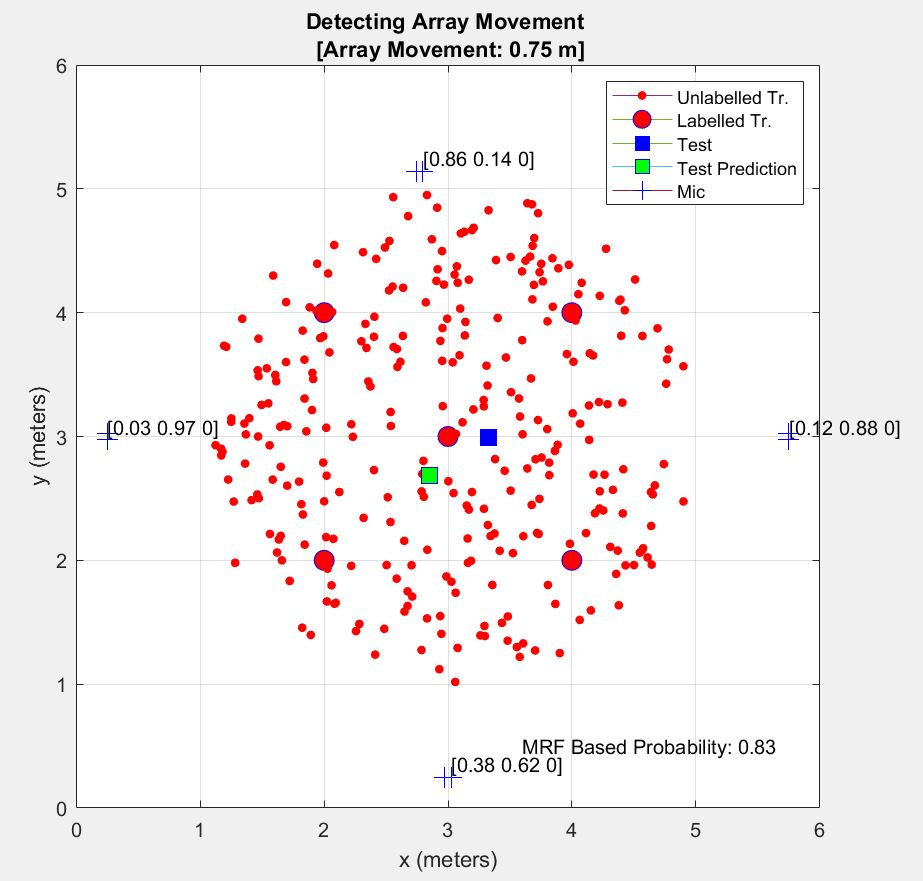
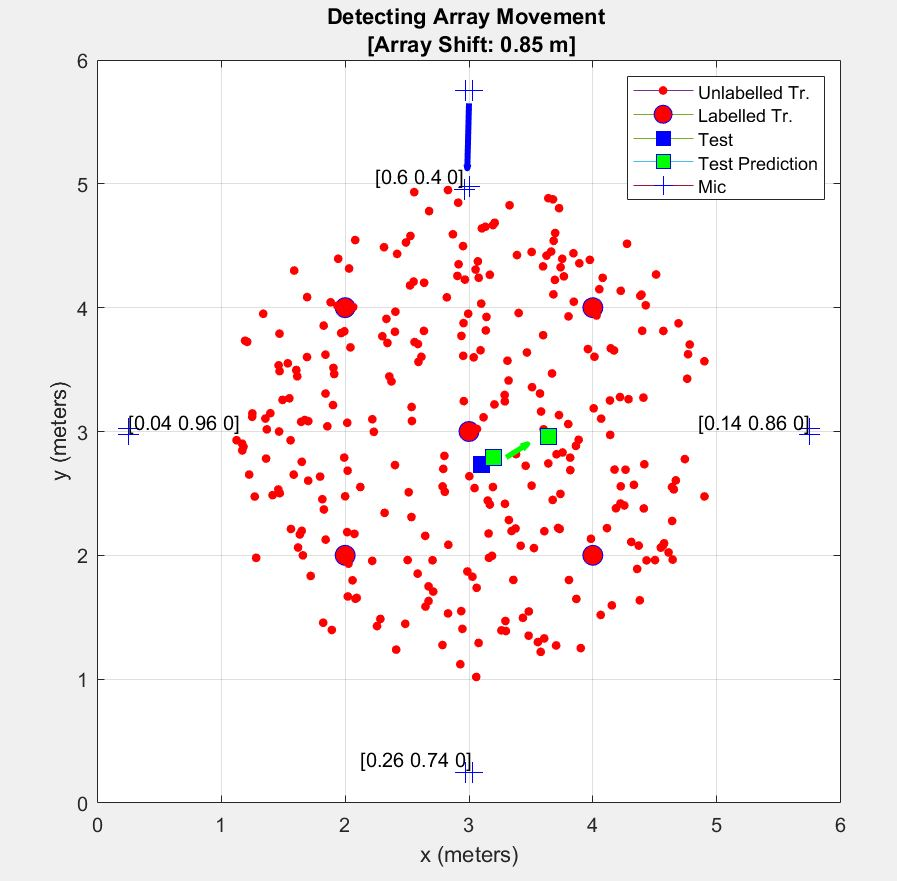
trainRoomVari upd

diff --git a/code/sourceLocalization/moveDetect_radial_vis.m b/code/sourceLocalization/moveDetect_radial_vis.m
@@ -23,18 +23,17 @@ load('mat_outputs/monoTestSource_biMicCircle_5L300U_2')
 % modelSd = .1;
 
 %simulate different noise levels
-radii = .75; 
+radii = .85; 
 its_per = 10;
 mic_ref = [3 5.75 1; 5.75 3 1; 3 .25 1; .25 3 1];
-accs = struct([]);
 wav_folder = dir('./shortSpeech/');
 wav_folder = wav_folder(3:27);
 inits = 1;
 rotation = 0;
 
 transMat = [.65 0.3 0.05; .2 .75 0.05; 1/3 1/3 1/3];
-init_var = .1;
-lambda = .2;
+init_var = .2;
+lambda = .3;
 eMax = .3;
 thresh = .3;
 
@@ -49,51 +48,33 @@ gammaL = reshape(gammaLs(t_curr,:,:), [nL, nL]);
 
 
 for riter = 1:size(radii,2)
-    acc_curr = struct([]);
+    
     radius_mic = radii(riter);
-    if riter == 1
-        iters_per = its_per+1;
-    else 
-        iters_per = its_per;
-    end
-    for it = 1:iters_per 
+   
+    for it = 1:its_per 
         %randomize tst source, new position of random microphone (new
         %position is on circle based off radius_mic), random rotation to
         %microphones, and random sound file (max 4 seconds).
-        sourceTest = randSourcePos(1, roomSize, radiusU*.35, ref);
+        if it == 1
+            sourceTest = randSourcePos(1, roomSize, radiusU*.55, ref);
+        end
         if inits > 1
-            movingArray = randi(numArrays);
-            [rotation, micsPosNew] = micNoRotate(roomSize, radius_mic, mic_ref, movingArray, micsPos, numArrays, numMics);
-%             if radius_mic == 0
-%                 micsPosNew = micsPos;
-%             elseif movingArray == 1
-%                 micsPosNew = [micsPos(1:2,:)+[0 radius_mic 0]; micsPos(1+numMics:end,:)];
-%             elseif movingArray == numArrays
-%                 micsPosNew = [micsPos(1:end-numMics,:); micsPos(7:8,:)+[radius_mic 0 0]];
-%             elseif movingArray == 2
-%                 micsPosNew = [micsPos(1:numMics,:); micsPos(3:4,:)+[radius_mic 0 0]; micsPos(2*numMics+1:end,:)];
-%             else
-%                 micsPosNew = [micsPos(1:numMics*2,:); micsPos(5:6,:)+[0 radius_mic 0]; micsPos(3*numMics+1:end,:)];
-%             end
-                % randMicPos = mic_ref(1,:)+[0 radius_mic 0];
-    %             new_x1 = randMicPos(:,1)+.025;
-    %             new_y1 = randMicPos(:,2);
-    %             new_x2 = randMicPos(:,1)-.025;
-    %             new_y2 = randMicPos(:,2);
-    %             micsPosNew = [new_x1 new_y1 1;new_x2 new_y2 1; micsPos(1+numMics:end,:)];
-
+%             movingArray = randi(numArrays);
+            [rotation, micsPosNew] = micRotate(roomSize, radius_mic, mic_ref, movingArray, micsPos, numArrays, numMics);
         else
             movingArray = randi(numArrays);
             micsPosNew = micsPos;
             inits = 2;
         end
         
-        rand_wav = randi(numel(wav_folder));
-        file = wav_folder(rand_wav).name;
-        [x_tst,fs_in] = audioread(file);
-        [numer, denom] = rat(fs/fs_in);
-        x_tst = resample(x_tst,numer,denom);
-        x_tst = x_tst';
+        if it == 1
+            rand_wav = randi(numel(wav_folder));
+            file = wav_folder(rand_wav).name;
+            [x_tst,fs_in] = audioread(file);
+            [numer, denom] = rat(fs/fs_in);
+            x_tst = resample(x_tst,numer,denom);
+            x_tst = x_tst';
+        end
        
         %---- Initialize subnet estimates of training positions ----
         sub_p_hat_ts = zeros(numArrays, 3); 
@@ -102,16 +83,16 @@ for riter = 1:size(radii,2)
             [~,~,sub_p_hat_ts(k,:)] = test(x_tst, gammaL, trRTF, subnet, rirLen, rtfLen, numArrays-1, numMics, sourceTrain,...
                 sourceTest, nL, nU, roomSize, T60, c, fs, kern_typ, subscales);  
         end
-        [self_sub_p_hat_ts, p_fail, posteriors] = moveDetectorOpt(x_tst, transMat, init_var, lambda, eMax, thresh, gammaL, numMics, numArrays, micsPosNew, 1, 0, sub_p_hat_ts, scales, RTF_train,...
+        [self_sub_p_hat_ts, p_fail, posteriors] = moveDetector(x_tst, gammaL, numMics, numArrays, micsPosNew, 1, 0, sub_p_hat_ts, scales, RTF_train,...
                 rirLen, rtfLen, sourceTrain, sourceTest, nL, nU, roomSize, T60, c, fs, kern_typ);
             
 % % %     ---- estimate test positions before movement ----
 % %         [~,~, pre_p_hat_t] = test(x_tst, gammaL, RTF_train, micsPos, rirLen, rtfLen, numArrays,...
 % %                         numMics, sourceTrain, sourceTest, nL, nU, roomSize, T60, c, fs, kern_typ, scales);
 % % 
-% %     %---- estimate test positions after movement ----
-% %         [~,~, p_hat_t] = test(x_tst, gammaL, RTF_train, micsPosNew, rirLen, rtfLen, numArrays,...
-% %                         numMics, sourceTrain, sourceTest, nL, nU, roomSize, T60, c, fs, kern_typ, scales);
+    %---- estimate test positions after movement ----
+        [~,~, p_hat_t] = test(x_tst, gammaL, RTF_train, micsPosNew, rirLen, rtfLen, numArrays,...
+                        numMics, sourceTrain, sourceTest, nL, nU, roomSize, T60, c, fs, kern_typ, scales);
 % %         
 %         mean_naives = zeros(numArrays,1);
 %         sub_naives = zeros(numArrays,1);
@@ -150,19 +131,24 @@ for riter = 1:size(radii,2)
 %         naive_p_fail = norm(p_hat_t - pre_p_hat_t);
 %         naive2_p_fail = mean(std(self_sub_p_hat_ts- sub_p_hat_ts));
         %PLOT
+        figure(2)
         f = plotRoom(roomSize, micsPosNew, sourceTrain, sourceTest, nL, p_hat_t);
-        title(sprintf('Detecting Array Movement \n [Array Movement: %s m]', num2str(radius_mic)))
+        title(sprintf('Detecting Array Movement \n [Array Shift: %s m]', num2str(radius_mic)))
      
 %         naiveTxt = text(.6,.5, sprintf('Network Estimate Distance:\n %s',num2str(round(naive_p_fail,2))));
 %         naive2Txt = text(2.6,.5, sprintf('Std of Sub-Network Estimate Diff.:\n %s',num2str(round(naive2_p_fail,2))));
-        if it == 2
-            plot()
+        if it >1
             binTxt = text(3.6,.5, sprintf('MRF Based Probability: %s',num2str(round(p_fail,2))));
-            prbTxt = text(labelPos(:,1),labelPos(:,2), labels, 'HorizontalAlignment', 'left', 'VerticalAlignment', 'bottom');
-
+            prbTxt = text(labelPos(1:3,1),labelPos(1:3,2), labels(1:3), 'HorizontalAlignment', 'right', 'VerticalAlignment', 'bottom');
+            prbTxt = text(labelPos(4,1),labelPos(4,2), labels(4), 'HorizontalAlignment', 'left', 'VerticalAlignment', 'bottom');
+            dp = mean(micsPosNew(1:2,:))-mic_ref(1,:);
+            q = quiver(mic_ref(1),mic_ref(2)-.1,dp(1),dp(2)+.2,'linewidth',3,'color','blue');
+            dp2 = (p_hat_t - [3.2 2.79 1]);
+            q2 = quiver(3.2+.1,2.79,dp2(1)-.25,dp2(2)-.05,.9,'linewidth',2.7,'color','green');
             %     %Uncomment below for pauses between iterations only continued by
         %     %clicking graph  
             w = waitforbuttonpress;
+            delete(prbTxt);
             
         end
     %         delete(binTxt);
@@ -170,6 +156,7 @@ for riter = 1:size(radii,2)
     %         delete(naiveTxt);
     %         delete(naive2Txt);
 %         clf
+        w = waitforbuttonpress;
          
     end
    

diff --git a/code/sourceLocalization/moveDetect_pFail_vis.m b/code/sourceLocalization/moveDetect_pFail_vis.m
@@ -1,4 +1,4 @@
-
+clear
 addpath ./RIR-Generator-master
 addpath ./functions
 mex -setup c++
@@ -7,40 +7,40 @@ addpath ./stft
 addpath ./shortSpeech
 
 %{
-This program looks at the localization error (MSE) of arrays when moved 
-varying distances from where they originated (i.e. for training). The
-purpose is to see the correspondance between the localization error with
-the proabilities of failure of the MRF based movement detector.
+This program looks at the localization error (MSE) and posterior probabilities
+output from the MRF model when arrays are moved varying distances from where 
+they were during training). Results show the benefit of using the proabilities 
+of failure of the MRF based movement detector rather than localization
+error.
 %}
 
-% ---- TRAINING DATA ----
-% room setup
-disp('Setting up the room');
-% ---- Initialize Parameters for training ----
 
-%---- load training data (check mat_trainParams for options)----
-% load('mat_outputs/monoTestSource_biMicCircle_5L300U')
+%%---- Uncomment for visualizing posterior probability results ----
+% load('./mat_results/pFail_res', 'p_fail', 'radii')
+% p_fail_1 = p_fail;
+% radii_1 = radii;
+% load('./mat_results/pFail_res2', 'p_fail', 'radii')
+% p_fail = [p_fail_1; p_fail];
+% radii = [radii_1 radii];
+% figure(1)
+% bar([0;p_fail])
+% title(sprintf('Average Probability of Failure for Varying Array Shifts\n (100 Trials per Threshold Simulated w/Varying Array Shifts)\n[Shifts: 0.05m - 3.05m by 20cm increments]'))
+% xlabel(sprintf('Array Shift (m) from Location During Training'))
+% ylabel(sprintf('Probability of Failure \n (via MRF Detection)'))
+% mz = {[0 round(radii(1:2:end),2)]};
+% xticklabels(mz)
+% % set(gca,'XTickLabel',mz)
+% ylim([0 1])
 
-%simulate different noise levels
-radii = .05:.2:1.25;
-num_radii = size(radii,2);
-mic_ref = [3 5.75 1; 5.75 3 1; 3 .25 1; .25 3 1];
 
-%---- Set MRF params ----
-num_iters = 100;
-
-
-load('./mat_results/pFail_res', 'p_fail', 'radii')
-p_fail_1 = p_fail;
-radii_1 = radii;
-load('./mat_results/pFail_res2', 'p_fail', 'radii')
-p_fail = [p_fail_1; p_fail];
-radii = [radii_1 radii];
+%---- Uncomment for localization results for increasing shifts.
+load('./mat_results/loclError_res', 'localErrors', 'radii')
+localError = mean(localErrors,2);
 figure(1)
-bar([0;p_fail])
+bar([0;localError])
 title(sprintf('Average Probability of Failure for Varying Array Shifts\n (100 Trials per Threshold Simulated w/Varying Array Shifts)\n[Shifts: 0.05m - 3.05m by 20cm increments]'))
 xlabel(sprintf('Array Shift (m) from Location During Training'))
-ylabel(sprintf('Probability of Failure \n (via MRF Detection)'))
+ylabel(sprintf('Estimation Error (m) After Shift'))
 mz = {[0 round(radii(1:2:end),2)]};
 xticklabels(mz)
 % set(gca,'XTickLabel',mz)

diff --git a/code/sourceLocalization/moveDetect_localError_sim.m b/code/sourceLocalization/moveDetect_localError_sim.m
@@ -1,0 +1,76 @@
+
+addpath ./RIR-Generator-master
+addpath ./functions
+mex -setup c++
+mex RIR-Generator-master/rir_generator.cpp;
+addpath ./stft
+addpath ./shortSpeech
+
+%{
+This program looks at the localization error (MSE) of arrays when moved 
+varying distances from where they originated (i.e. for training). The
+purpose is to see the correspondance between the localization error with
+the proabilities of failure of the MRF based movement detector.
+%}
+
+% ---- TRAINING DATA ----
+% room setup
+disp('Setting up the room');
+% ---- Initialize Parameters for training ----
+
+%---- load training data (check mat_trainParams for options)----
+load('mat_outputs/monoTestSource_biMicCircle_5L300U')
+
+%simulate different noise levels
+radii = 0.05:.2:3.05;
+num_radii = size(radii,2);
+mic_ref = [3 5.75 1; 5.75 3 1; 3 .25 1; .25 3 1];
+
+%---- Set MRF params ----
+num_iters = 100;
+
+localErrors = zeros(num_radii,num_iters);
+
+for r = 1:num_radii
+    radius_mic = radii(r);
+    
+    for iters = 1:num_iters      
+        %randomize tst source, new position of random microphone (new
+        %position is on circle based off radius_mic), random rotation to
+        %microphones, and random sound file (max 4 seconds).
+        sourceTest = randSourcePos(1, roomSize, radiusU, ref);
+
+        movingArray = randi(numArrays);
+
+        [~, micsPosNew] = micNoRotate(roomSize, radius_mic, mic_ref, movingArray, micsPos, numArrays, numMics);
+        wavs = dir('./shortSpeech/');
+    %             wav_folder = wavs(3:27);
+        rand_wav = randi(25);
+        try
+            file = wavs(rand_wav+2).name;
+            [x_tst,fs_in] = audioread(file);
+            [numer, denom] = rat(fs/fs_in);
+            x_tst = resample(x_tst,numer,denom);
+            x_tst = x_tst';  
+        catch
+            continue
+        end         
+
+      %---- Initialize subnet estimates of training positions ----
+        sub_p_hat_ts = zeros(numArrays, 3); 
+        for k = 1:numArrays
+            [subnet, subscales, trRTF] = subNet(k, numArrays, numMics, scales, micsPos, RTF_train);
+            [~,~,sub_p_hat_ts(k,:)] = test(x_tst, gammaL, trRTF, subnet, rirLen, rtfLen, numArrays-1, numMics, sourceTrain,...
+                sourceTest, nL, nU, roomSize, T60, c, fs, kern_typ, subscales);  
+        end
+        [p_hat_ts,~, ~] = moveDetector(x_tst, gammaL, numMics, numArrays, micsPosNew, 1, 0, sub_p_hat_ts, scales, RTF_train,...
+                rirLen, rtfLen, sourceTrain, sourceTest, nL, nU, roomSize, T60, c, fs, kern_typ);
+        localErrors(r,iters) = mean(mean((sourceTest-p_hat_ts).^2));
+    end
+end
+
+localError = mean(localErrors,2);
+
+save('./mat_results/loclError_res', 'localError', 'localErrors', 'radii')
+
+

diff --git a/code/sourceLocalization/trainRoom_rtf_sim.m b/code/sourceLocalization/trainRoom_rtf_sim.m
@@ -85,4 +85,4 @@ for t = 1:num_ts
     gammaLs(t,:,:) = inv(sigmaL + diag(ones(1,nL).*vari));
 end
 
-save('mat_outputs/monoTestSource_biMicCircle_5L300U_2')
+save('mat_outputs/monoTestSource_biMicCircle_5L300U_4')
